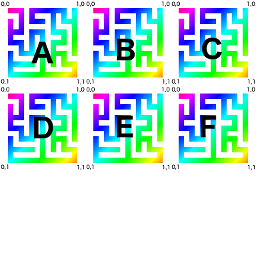
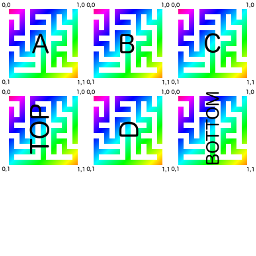
Cube now UV maps cleanly

Changed region(s): [[0.0, 0.0, 1.0, 0.6875]]

diff --git a/geo.js b/geo.js
@@ -8,32 +8,33 @@ var GEO = (function () {
             coords = uvCoords || WGL.uvFill(),
             gutter = gutterSize || 1.0 / 512;
         mesh.vertices = [
-            -s, -s, -s, //0
+            //   V   U
+            -s, -s, -s, //0 A
             -s, -s,  s, //1
             -s,  s,  s, //2
             -s,  s, -s, //3
-
-             s, -s, -s,
+            //   V   U
+             s, -s, -s, // C
              s, -s,  s,
              s,  s,  s,
              s,  s, -s,
-
-            -s, -s, -s,
+            //V      U
+            -s, -s, -s, // Bottom
              s, -s, -s,
              s, -s,  s,
             -s, -s,  s,
-
-            -s,  s, -s,
+            //V      U
+            -s,  s, -s, // Top
              s,  s, -s,
              s,  s,  s,
             -s,  s,  s,
-
-            -s, -s, -s,
+            //U  V
+            -s, -s, -s, // D
             -s,  s, -s,
              s,  s, -s,
              s, -s, -s,
-
-            -s, -s,  s,
+            //U  V
+            -s, -s,  s, // B
             -s,  s,  s,
              s,  s,  s,
              s, -s,  s
@@ -75,41 +76,41 @@ var GEO = (function () {
             u0 = WGL.mapU(coords, gutter),
             u1 = WGL.mapU(coords, gutter + uvSize),
             u2 = WGL.mapU(coords, gutter + 2 * uvSize),
-            u3 = WGL.mapU(coords, 1 - gutterSize),
+            u3 = WGL.mapU(coords, 1 - gutter),
             v0 = WGL.mapV(coords, gutter),
             v1 = WGL.mapV(coords, gutter + uvSize),
             v2 = WGL.mapV(coords, 3 * gutter + uvSize),
             v3 = WGL.mapV(coords, 3 * gutter + 2 * uvSize);
         mesh.uvs = [
-            u0, v1,
+            u0, v1, // A
             u1, v1,
             u1, v0,
             u0, v0,
 
-            0.02, 0.35,
-            0.02, 0.65,
-            0.32, 0.65,
-            0.32, 0.35,
+            u3, v1, // C
+            u2, v1,
+            u2, v0,
+            u3, v0,
 
-            0.35, 0.02,
-            0.35, 0.32,
-            0.65, 0.32,
-            0.65, 0.02,
+            u2, v2, // Bottom
+            u2, v3,
+            u3, v3,
+            u3, v2,
 
-            0.35, 0.35,
-            0.35, 0.65,
-            0.65, 0.65,
-            0.65, 0.35,
+            u1, v2, // Top
+            u1, v3,
+            u0, v3,
+            u0, v2,
 
-            0.68, 0.01,
-            0.68, 0.31,
-            0.98, 0.31,
-            0.98, 0.01,
+            u2, v2, // D
+            u1, v2,
+            u1, v3,
+            u2, v3,
 
-            0.68, 0.35,
-            0.68, 0.65,
-            0.98, 0.65,
-            0.98, 0.35,
+            u1, v1, // B
+            u1, v0,
+            u2, v0,
+            u2, v1,
         ];
 
         var twoFace = [0, 1, 3, 1, 2, 3, 4, 7, 5, 5, 7, 6];
@@ -127,23 +128,29 @@ var GEO = (function () {
         if (generateTexture) {
             var canvas = document.createElement('canvas'),
                 context = canvas.getContext('2d'),
-                THIRD = 42;
+                SIZE = 128,
+                THIRD = 126/3,
+                G = 1,
+                V0 = G,
+                V1 = 3*G + THIRD;
 
-            canvas.width = canvas.height = 128;
+            canvas.width = canvas.height = SIZE;
             context.globalAlpha = 0.5;
 
-            context.fillStyle = "rgba(255, 0, 0, 128)";
-            context.fillRect(0, 0, THIRD, THIRD);
-            context.fillStyle = "rgba(0, 255, 0, 128)";
-            context.fillRect(THIRD, 0, THIRD, THIRD);
-            context.fillStyle = "rgba(0, 0, 255, 128)";
-            context.fillRect(2*THIRD, 0, THIRD, THIRD);
-            context.fillStyle = "rgba(255, 255, 0, 128)";
-            context.fillRect(0, THIRD, THIRD, THIRD);
-            context.fillStyle = "rgba(0, 255, 255, 128)";
-            context.fillRect(THIRD, THIRD, THIRD, THIRD);
-            context.fillStyle = "rgba(255, 0, 255, 128)";
-            context.fillRect(2*THIRD, THIRD, THIRD, THIRD);
+            context.fillStyle = "rgba(0, 0, 0, 255";
+            context.fillRect(0, 0, SIZE, SIZE);
+            context.fillStyle = "rgba(255, 0, 0, 255)";
+            context.fillRect(G, V0, THIRD, THIRD);
+            context.fillStyle = "rgba(0, 255, 0, 255)";
+            context.fillRect(G + THIRD, V0, THIRD, THIRD);
+            context.fillStyle = "rgba(0, 0, 255, 255)";
+            context.fillRect(G + 2*THIRD, V0, THIRD, THIRD);
+            context.fillStyle = "rgba(255, 255, 0, 255)";
+            context.fillRect(G, V1, THIRD, THIRD);
+            context.fillStyle = "rgba(0, 255, 255, 255)";
+            context.fillRect(G + THIRD, V1, THIRD, THIRD);
+            context.fillStyle = "rgba(255, 0, 255, 255)";
+            context.fillRect(G + 2*THIRD, V1, THIRD, THIRD);
             mesh.image = canvas;
         }
 

diff --git a/r2.js b/r2.js
@@ -5,6 +5,9 @@ var R2 = (function () {
         COLINEAR_TOLERANCE = 1e-5;
     r2.DEG_TO_RAD = Math.PI / 180;
     r2.RAD_TO_DEG = 1 / r2.DEG_TO_RAD;
+    r2.QUARTER_TURN = Math.PI / 2;
+    r2.HALF_TURN = Math.PI / 2;
+    r2.FULL_CIRCLE = 2 * Math.PI;
 
     function V(x, y) {
         this.x = x || 0;
